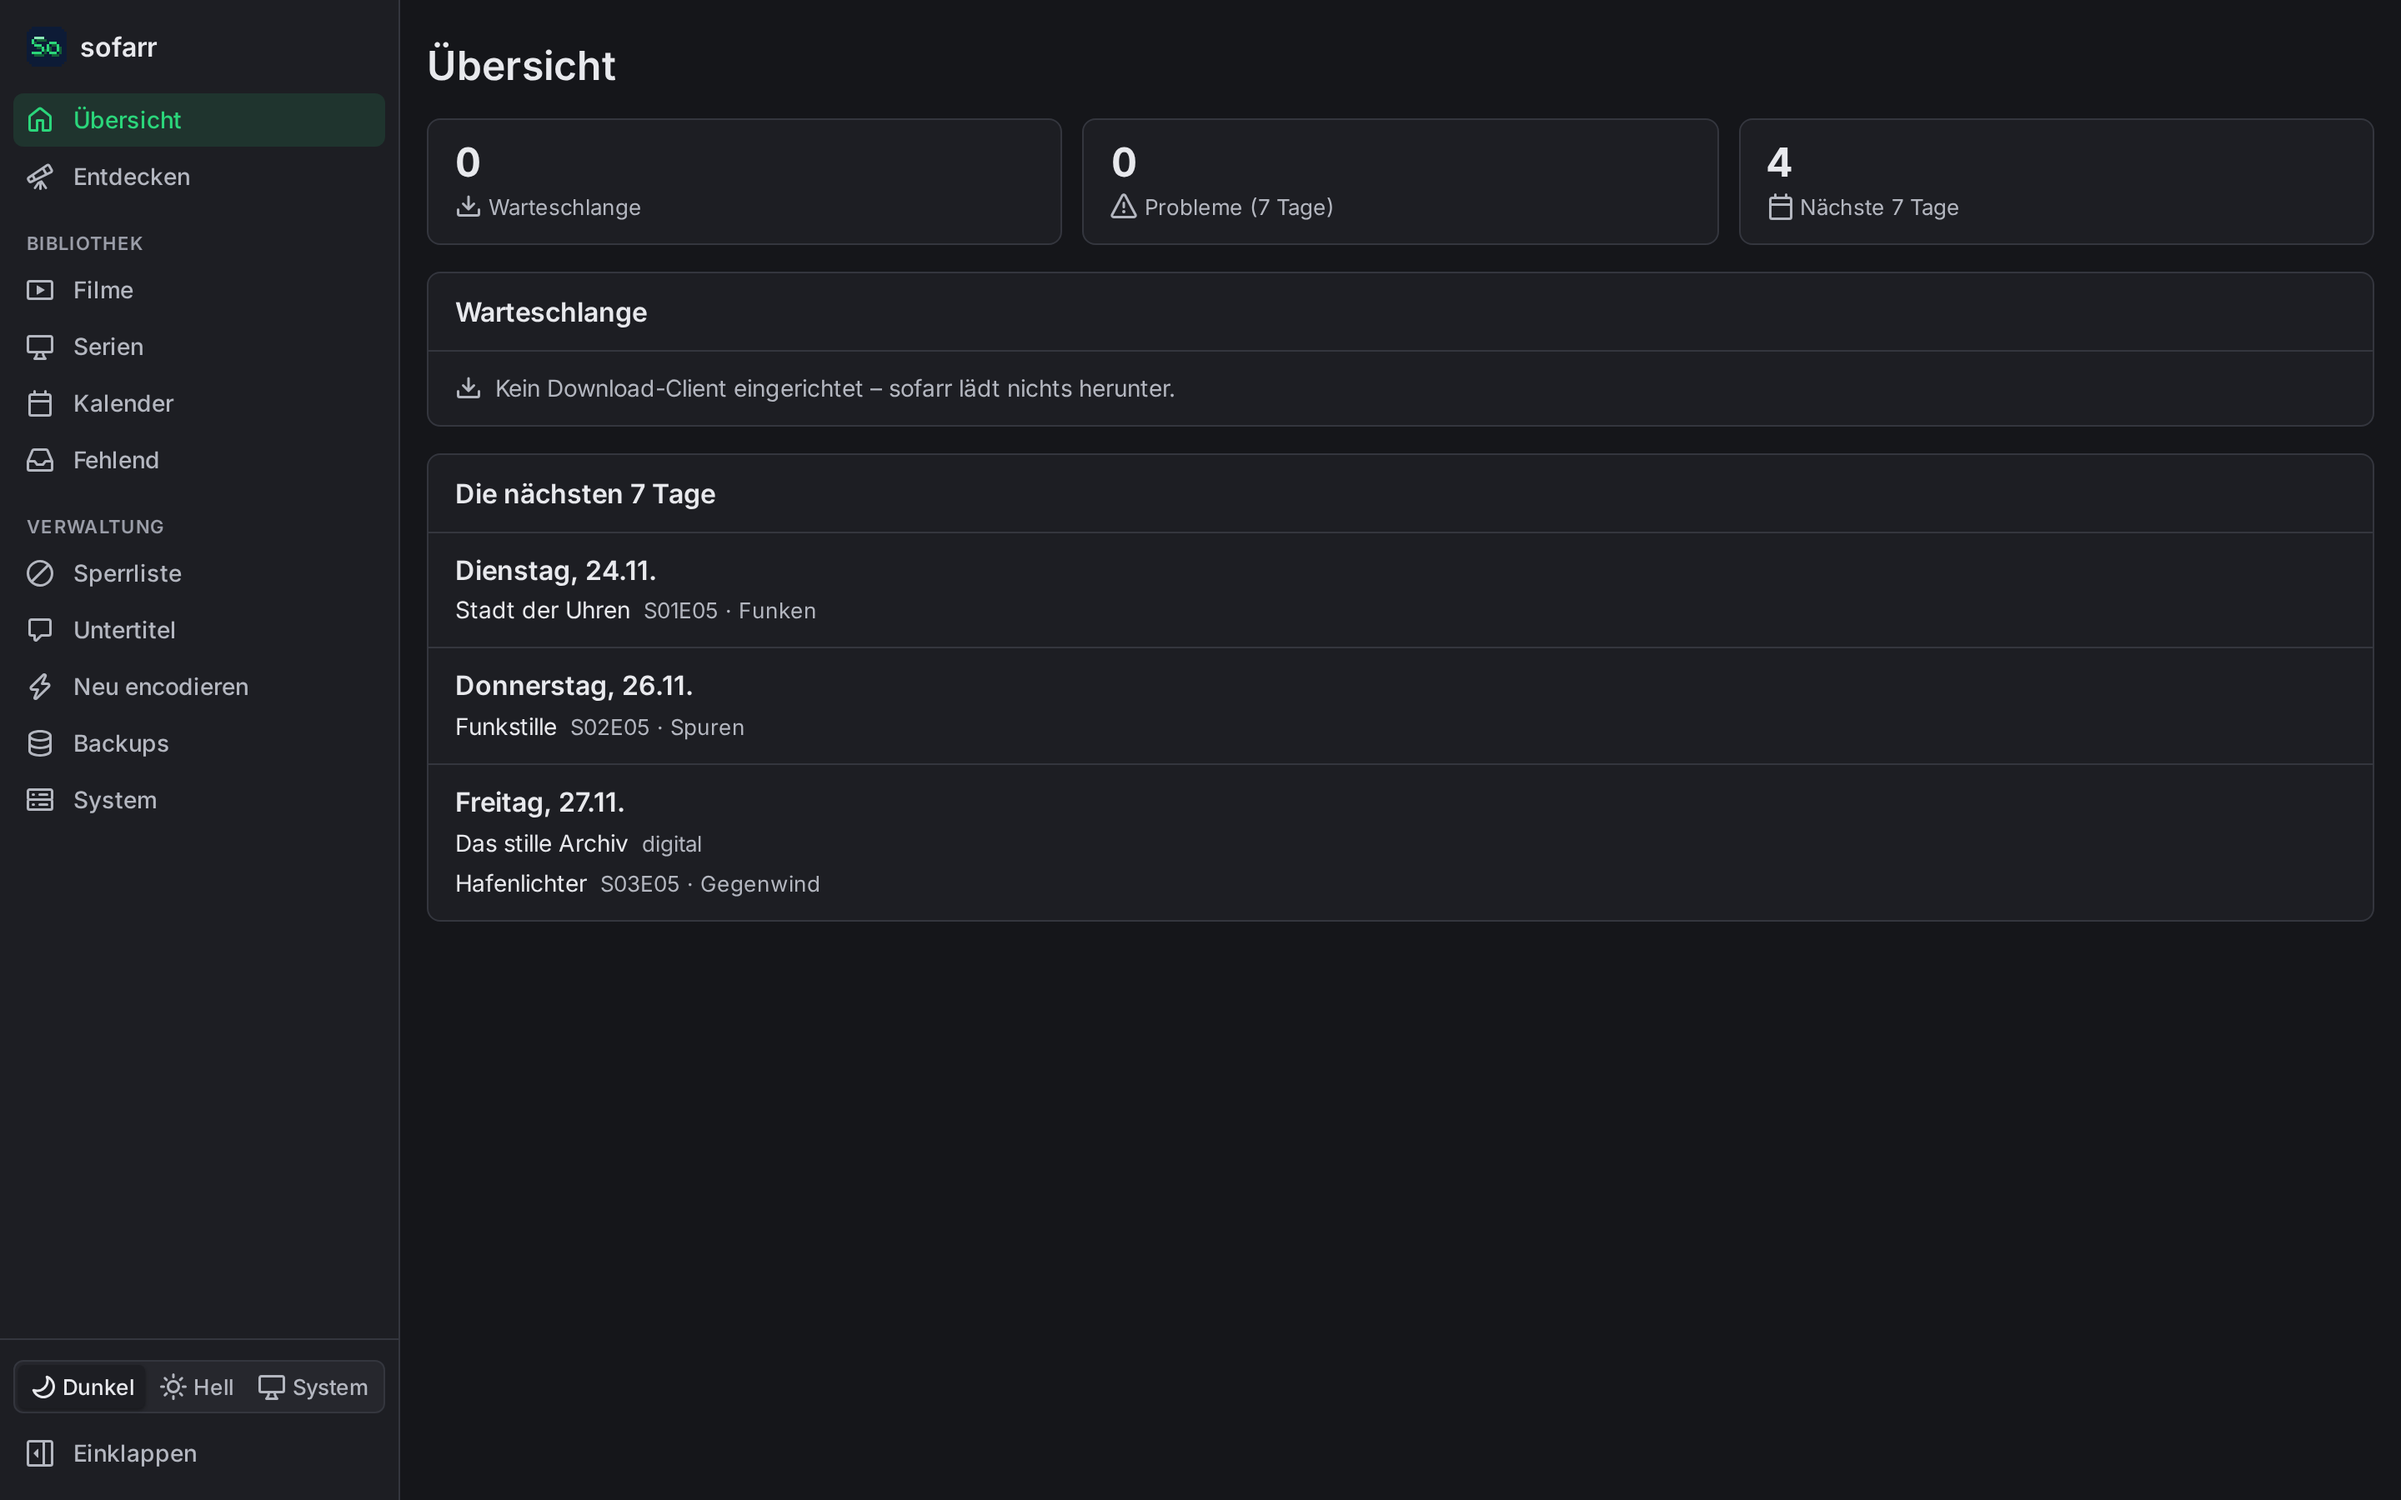
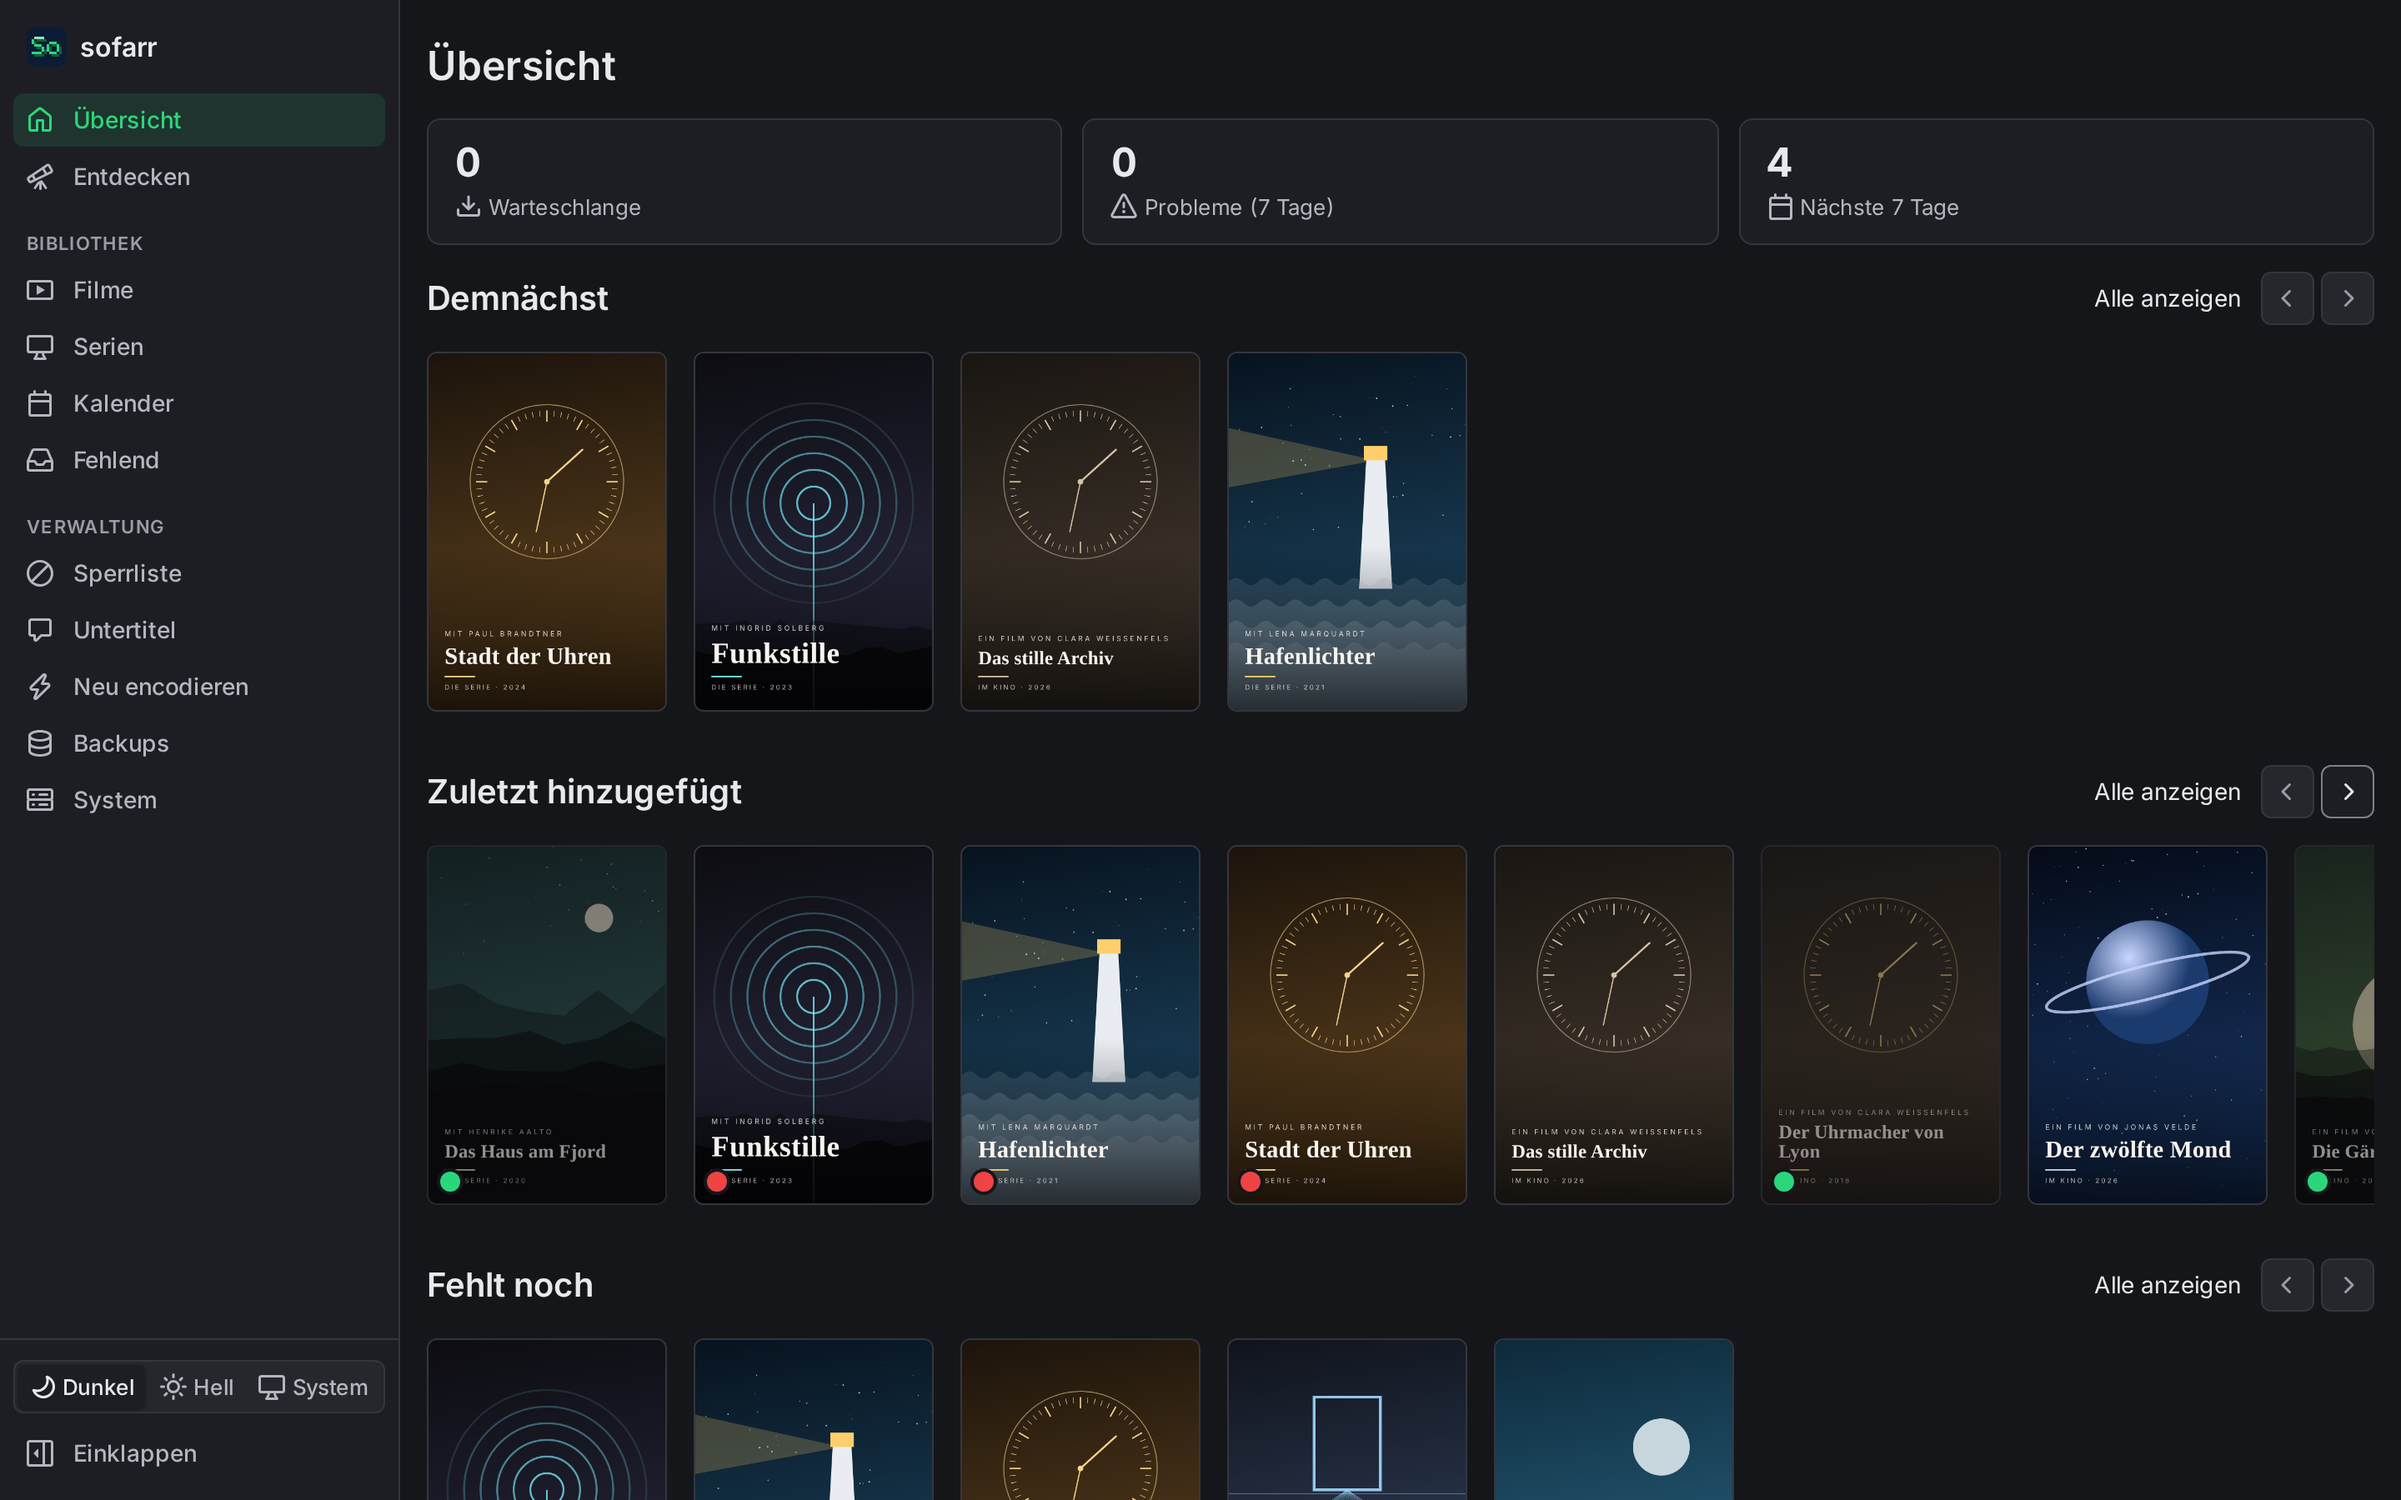
docs(ui): regenerate the overview screenshot with its rows (AC-09)
Claude-Session: https://claude.ai/code/session_01Nq29xjGirVNyRkAxRVZUBs

diff --git a/docs/specs/ui-cinema-home.md b/docs/specs/ui-cinema-home.md
@@ -90,7 +90,7 @@ This spec builds on `ui-cinema-tiles` (the tiles in the rows).
 | AC-06 | `ui/e2e/cinema-home.spec.ts` „failures (AC-06)“ | built |        |
 | AC-07 | `ui/e2e/cinema-home.spec.ts` „loading time (AC-07)“ (measured 1166 ms, annotation „Messung“) | built |        |
 | AC-08 | `ui/e2e/cinema-home.spec.ts` „accessibility in the dark palette (AC-08)“ at 1440 and 360 px | built |        |
-| AC-09 |      | open   |        |
+| AC-09 | `docs/site/screenshots/overview.png` regenerated (`bun run screenshots`); awaits the owner's `manual:` entry | open   |        |
 | AC-10 |      | open   |        |
 
 ## Decisions
@@ -104,4 +104,5 @@ This spec builds on `ui-cinema-tiles` (the tiles in the rows).
 - 2026-11-22: A row whose first load has not answered yet counts as not empty, so the quiet line does not flash before the rows arrive; on equal added times movies come before series.
 - 2026-11-22: The older tests of the quiet line (`ui-polish` AC-08, AC-13; `ui-overview-polish` AC-06) serve empty rows (`emptyRows` in `library-helpers.ts`), because AC-04 shows the line only while the rows are empty too.
 - 2026-11-22: Poster tile links are never underlined: the placeholder's initial counted as an underlined title link (`look` AC-12).
+- 2026-11-22: The screenshot script waits for „Zuletzt hinzugefügt“ on the overview, so the picture shows the rows; only `overview.png` is committed, the other pictures changed by rendering noise alone.
 - 2026-11-22: The unit tests of `home.ts` were green at once (written after the module); the red run of AC-01 .. AC-08 is the e2e run before the page had rows (11 of 12 failed; „no rows and no boxes: the quiet line“ passed, the behavior of today).
